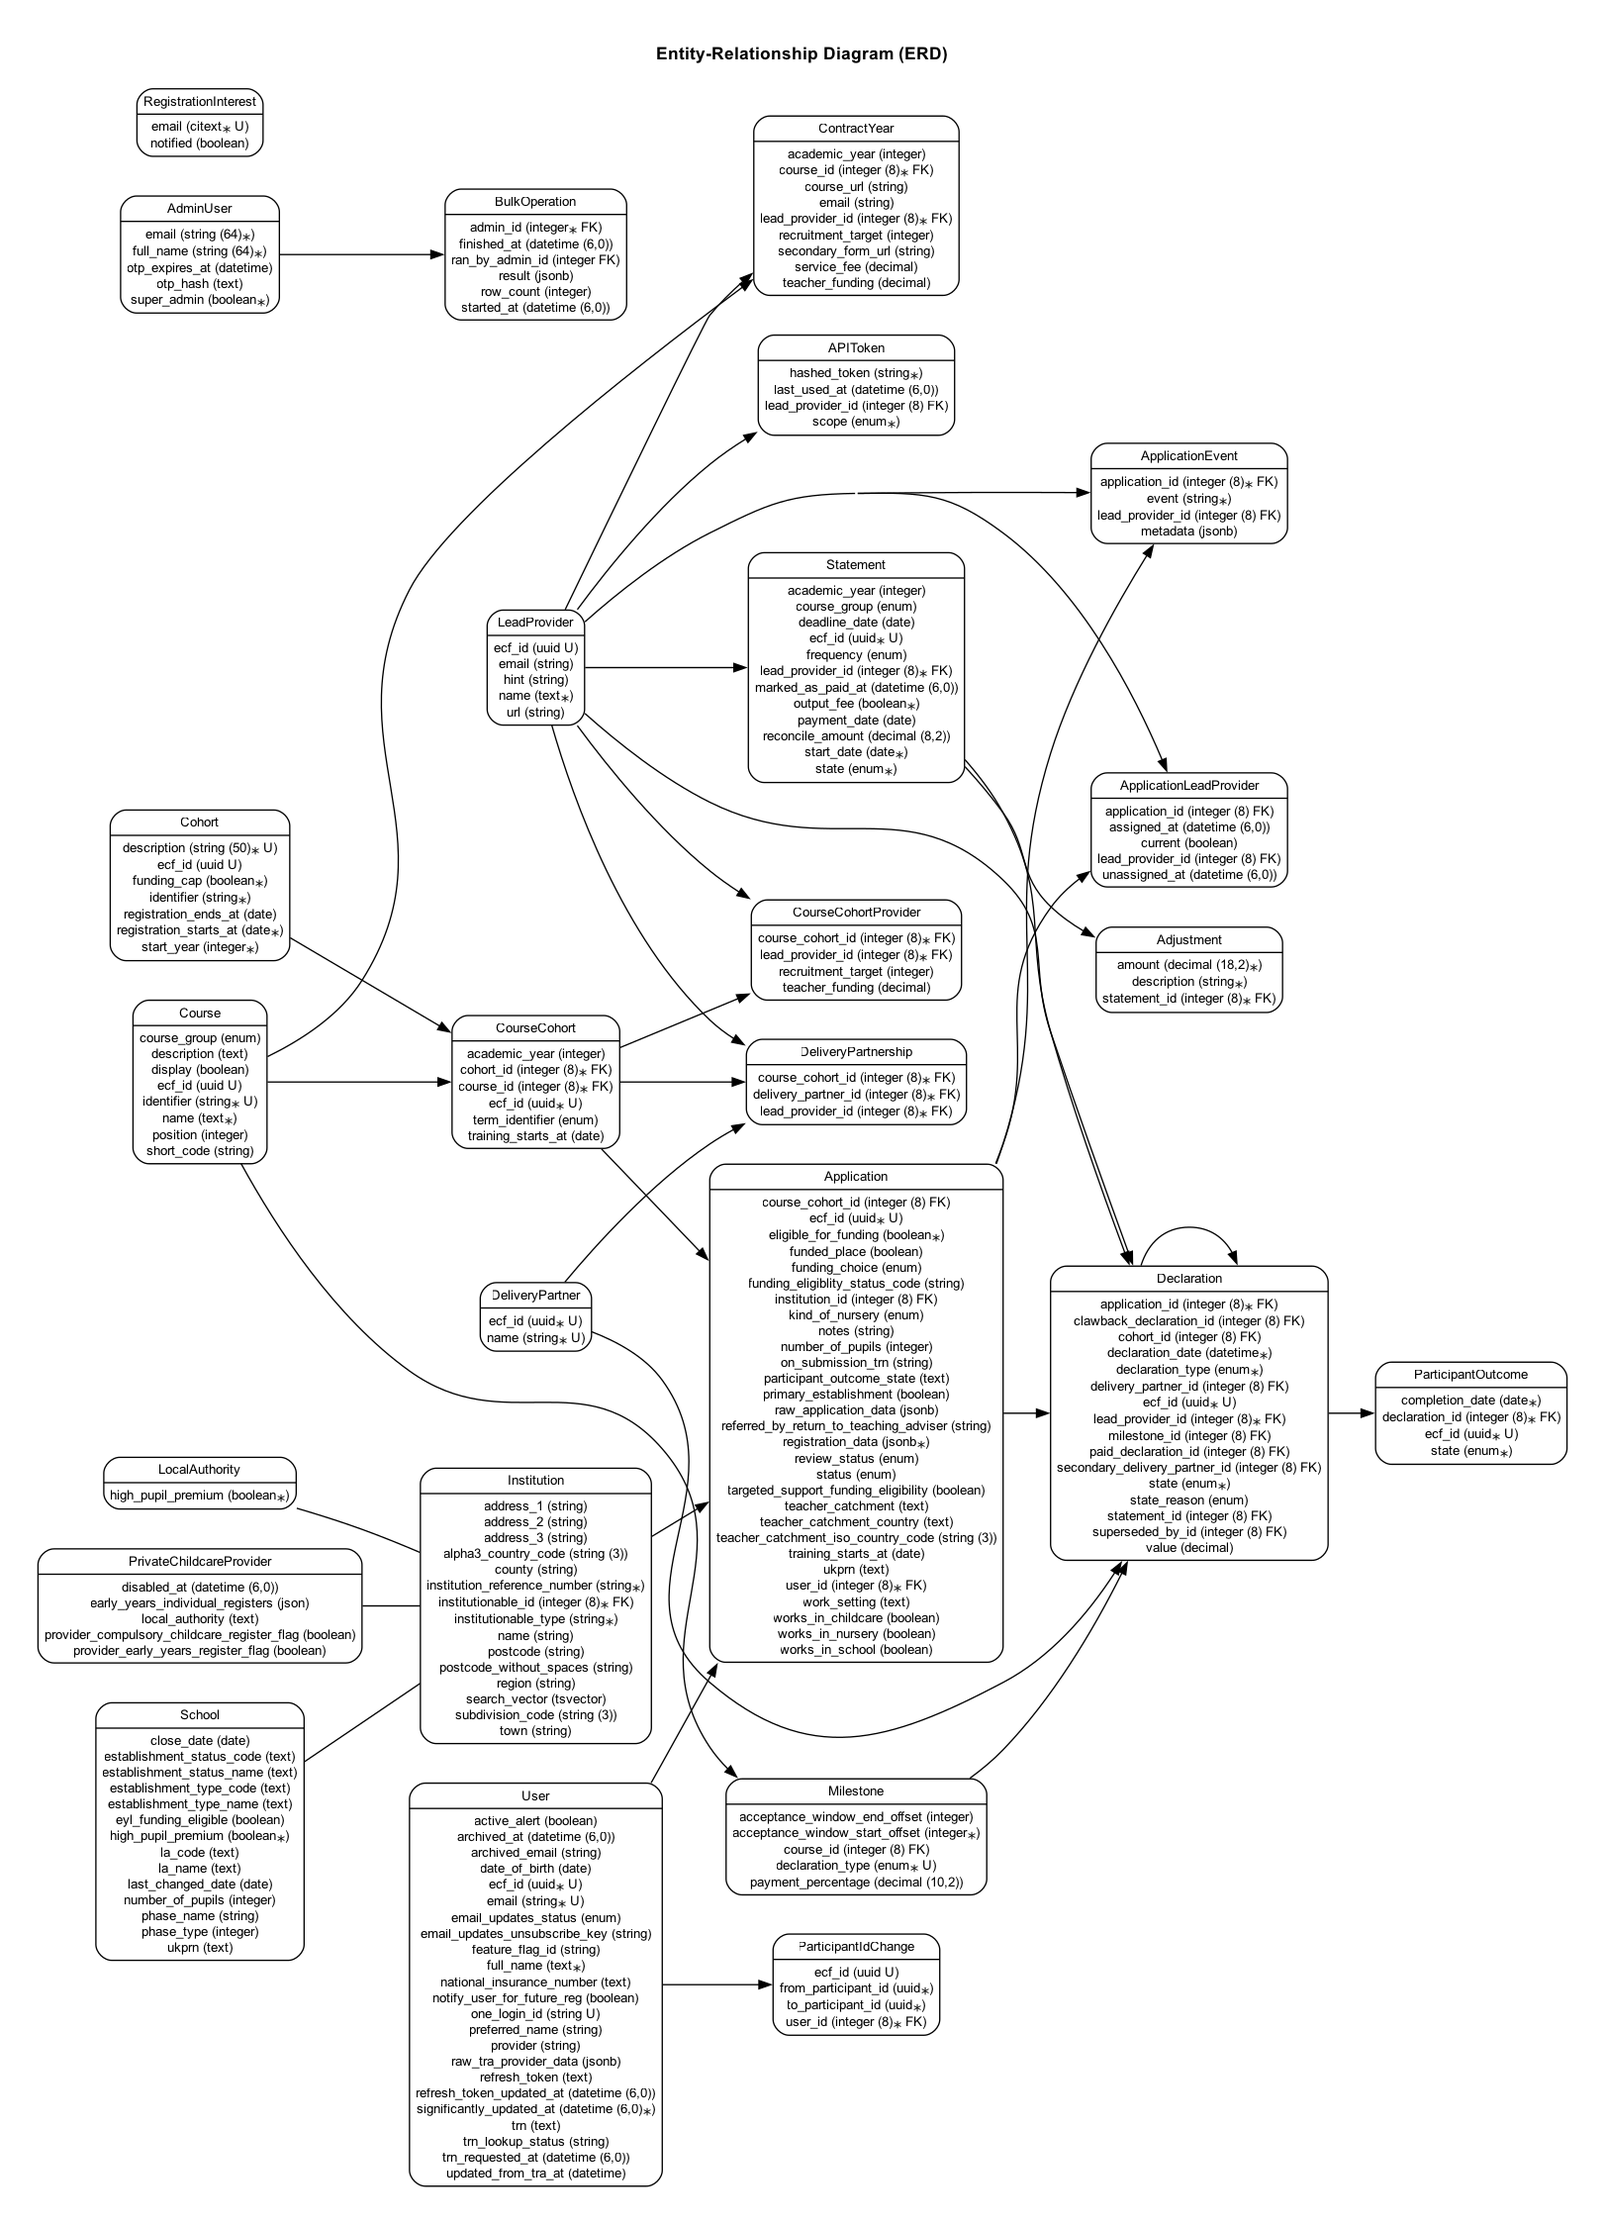
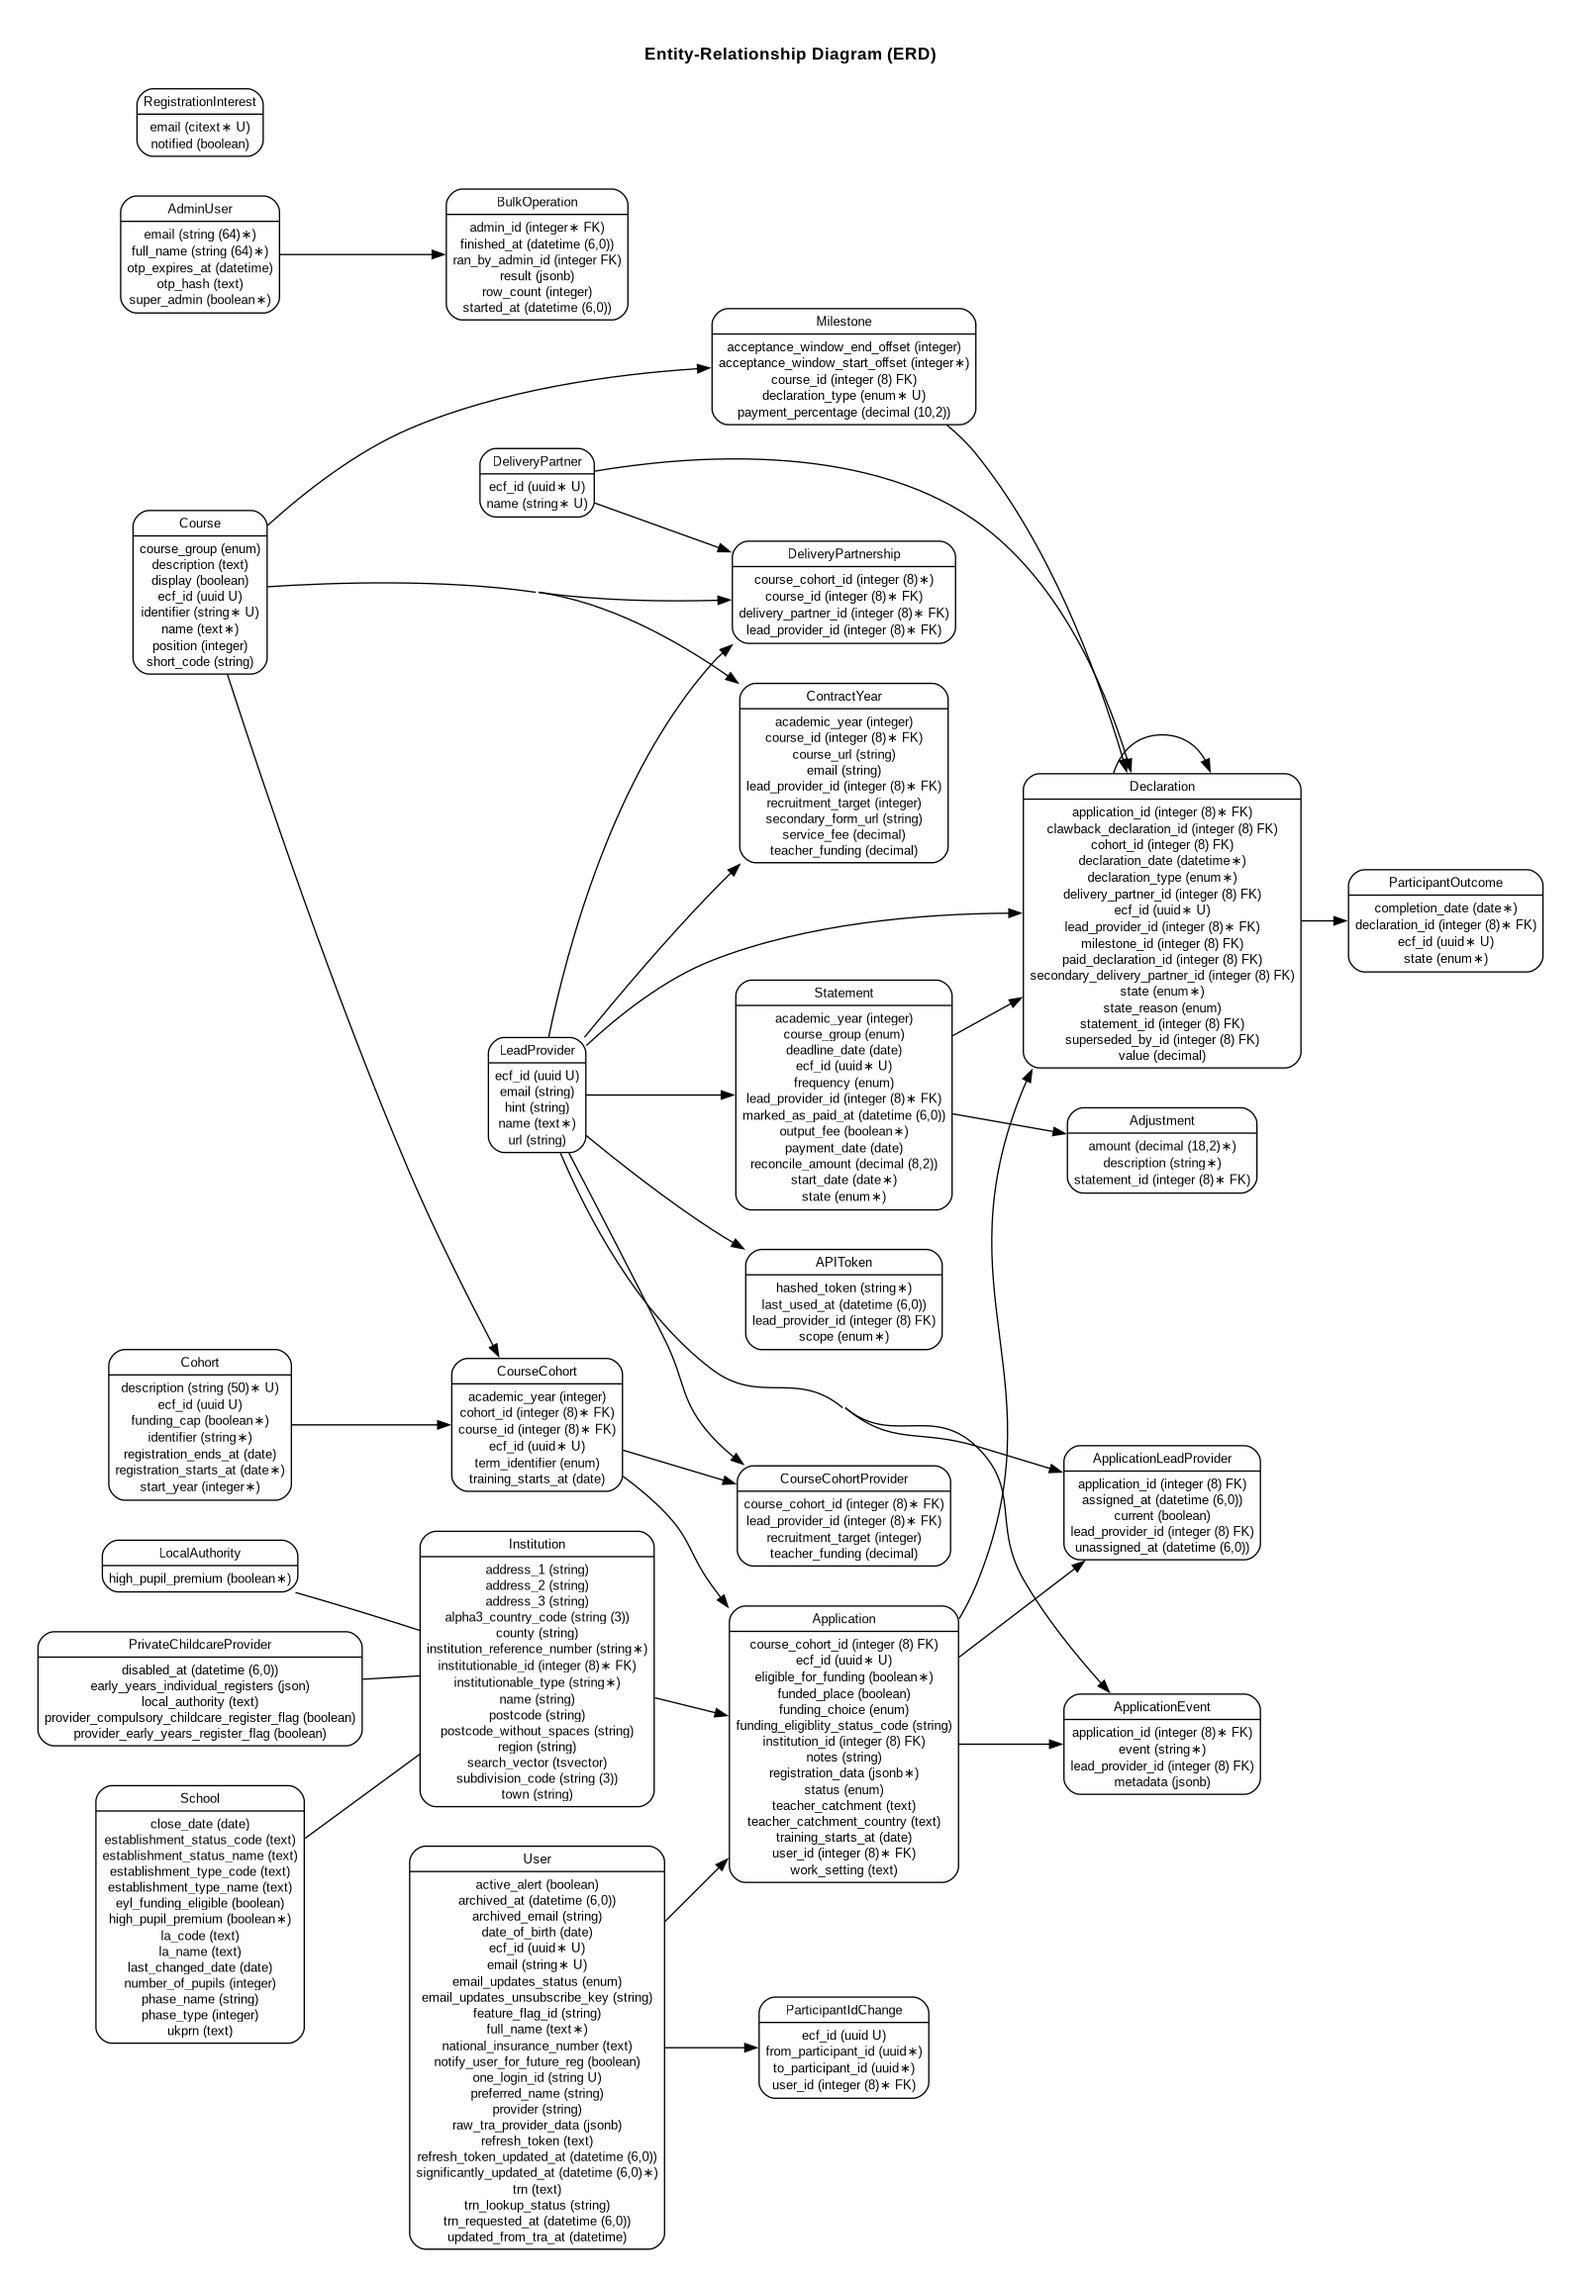
fix data migrate
removed clean up migration
simplify rake backfill task

diff --git a/spec/lib/tasks/data_migrations/backfill_course_delivery_partnerships_spec.rb b/spec/lib/tasks/data_migrations/backfill_course_delivery_partnerships_spec.rb
@@ -3,7 +3,6 @@ require "rails_helper"
 RSpec.describe "data_migrations:backfill_course_delivery_partnerships" do
   after do
     Rake::Task["data_migrations:backfill_course_delivery_partnerships"].reenable
-    connection.clear_cache!
   end
 
   let(:dry_run) { nil }
@@ -18,17 +17,6 @@ RSpec.describe "data_migrations:backfill_course_delivery_partnerships" do
   let(:lead_provider) { create(:lead_provider) }
   let(:delivery_partner_one) { create(:delivery_partner) }
   let(:delivery_partner_two) { create(:delivery_partner) }
-
-  before do
-    # Recreate the pre-migration shape: the task runs after the structure
-    # migration but before course_cohort_id is dropped, when the model no
-    # longer maps the association.
-    connection.execute("ALTER TABLE delivery_partnerships ALTER COLUMN course_id DROP NOT NULL")
-    connection.execute("ALTER TABLE delivery_partnerships ADD COLUMN course_cohort_id bigint")
-    # ALTER TABLE invalidates cached query plans for the table; clear the
-    # prepared statement cache so plans are rebuilt against the legacy shape.
-    connection.clear_cache!
-  end
 
   def insert_legacy_partnership(course_cohort:, lead_provider:, delivery_partner:)
     connection.execute(<<~SQL).to_a.first["id"]
@@ -66,31 +54,41 @@ RSpec.describe "data_migrations:backfill_course_delivery_partnerships" do
       expect(legacy_course_ids).to all(be_nil)
     end
 
-    it "lists every partnership that would be created" do
-      output = invoke_task
-
-      expect(output).to include("DeliveryPartnership #{DeliveryPartnership.first.id}: course_id -> #{course.id}")
-      expect(output).to include("Removing duplicate DeliveryPartnership #{DeliveryPartnership.last.id}")
-      expect(output).to include("Dry run: true")
+    it "reports what would change" do
+      expect(invoke_task).to include(
+        "Dry run: true",
+        "Backfilled partnerships: 1",
+        "Removed duplicate partnerships: 1",
+      )
     end
   end
 
   context "when run for real" do
     let(:dry_run) { "false" }
 
-    before do
+    let!(:kept_id) do
       insert_legacy_partnership(course_cohort: course_cohort_one, lead_provider:, delivery_partner: delivery_partner_one)
+    end
+
+    before do
       insert_legacy_partnership(course_cohort: course_cohort_two, lead_provider:, delivery_partner: delivery_partner_one)
       insert_legacy_partnership(course_cohort: course_cohort_two, lead_provider:, delivery_partner: delivery_partner_two)
     end
 
     it "creates exactly one course-level partnership per delivery partner, lead provider and course" do
-      invoke_task
+      output = invoke_task
 
       partnerships = DeliveryPartnership.order(:id)
       expect(partnerships.count).to eq(2)
       expect(partnerships.map(&:course_id)).to all(eq(course.id))
       expect(partnerships.map(&:delivery_partner)).to contain_exactly(delivery_partner_one, delivery_partner_two)
+      expect(output).to include("Dry run: false", "Backfilled partnerships: 2", "Removed duplicate partnerships: 1")
+    end
+
+    it "keeps the partnership with the lowest id" do
+      invoke_task
+
+      expect(DeliveryPartnership.where(delivery_partner: delivery_partner_one).pluck(:id)).to eq([kept_id])
     end
 
     it "keeps partnerships on other courses untouched" do
@@ -102,8 +100,7 @@ RSpec.describe "data_migrations:backfill_course_delivery_partnerships" do
 
       invoke_task
 
-      partnership = DeliveryPartnership.find(other_course_partnership_id)
-      expect(partnership.course_id).to eq(other_course.id)
+      expect(DeliveryPartnership.find(other_course_partnership_id).course_id).to eq(other_course.id)
     end
 
     it "is idempotent" do
@@ -120,36 +117,6 @@ RSpec.describe "data_migrations:backfill_course_delivery_partnerships" do
 
       expect { invoke_task }.not_to(change { declaration.reload.attributes })
       expect(declaration.delivery_partner).to be_present
-    end
-
-    context "when partner sets are identical between cohorts" do
-      before do
-        insert_legacy_partnership(course_cohort: course_cohort_one, lead_provider:, delivery_partner: delivery_partner_two)
-      end
-
-      it "does not report differing partner sets" do
-        expect(invoke_task).to include("Lead provider/course pairs with partner sets differing between cohorts: 0")
-      end
-    end
-
-    context "when partner sets differ between cohorts" do
-      let(:other_lead_provider) { create(:lead_provider) }
-
-      before do
-        # delivery_partner_two is only on cohort two, so the partner sets differ
-        insert_legacy_partnership(course_cohort: course_cohort_two, lead_provider: other_lead_provider, delivery_partner: delivery_partner_one)
-        insert_legacy_partnership(course_cohort: course_cohort_two, lead_provider: other_lead_provider, delivery_partner: delivery_partner_two)
-      end
-
-      it "reports every lead provider and course pair whose partner set will widen" do
-        output = invoke_task
-
-        expect(output).to include(
-          "Lead provider #{lead_provider.id}, course #{course.id}: partner set differs between cohorts and will widen to all cohorts",
-        )
-        expect(output).not_to include("Lead provider #{other_lead_provider.id}, course #{course.id}: partner set differs")
-        expect(output).to include("Lead provider/course pairs with partner sets differing between cohorts: 1")
-      end
     end
   end
 end

diff --git a/db/schema.rb b/db/schema.rb
@@ -10,7 +10,7 @@
 #
 # It's strongly recommended that you check this file into your version control system.
 
-ActiveRecord::Schema[8.1].define(version: 2026_10_21_103000) do
+ActiveRecord::Schema[8.1].define(version: 2026_11_11_120000) do
   # These are extensions that must be enabled in order to support this database
   enable_extension "btree_gin"
   enable_extension "citext"
@@ -299,13 +299,15 @@ ActiveRecord::Schema[8.1].define(version: 2026_10_21_103000) do
   end
 
   create_table "delivery_partnerships", force: :cascade do |t|
+    t.bigint "course_cohort_id"
     t.datetime "created_at", null: false
     t.bigint "delivery_partner_id", null: false
     t.bigint "lead_provider_id", null: false
     t.datetime "updated_at", null: false
-    t.bigint "course_id", null: false
+    t.bigint "course_id"
+    t.index ["course_cohort_id"], name: "index_delivery_partnerships_on_course_cohort_id"
     t.index ["course_id"], name: "index_delivery_partnerships_on_course_id"
-    t.index ["delivery_partner_id", "lead_provider_id", "course_id"], name: "idx_delivery_partnerships_on_partner_provider_course", unique: true
+    t.index ["delivery_partner_id", "lead_provider_id", "course_cohort_id"], name: "idx_delivery_partnerships_on_partner_provider_course_cohort", unique: true
     t.index ["delivery_partner_id"], name: "index_delivery_partnerships_on_delivery_partner_id"
     t.index ["lead_provider_id"], name: "index_delivery_partnerships_on_lead_provider_id"
   end
@@ -553,7 +555,8 @@ ActiveRecord::Schema[8.1].define(version: 2026_10_21_103000) do
   add_foreign_key "declarations", "delivery_partners"
   add_foreign_key "declarations", "delivery_partners", column: "secondary_delivery_partner_id"
   add_foreign_key "declarations", "lead_providers"
-  add_foreign_key "delivery_partnerships", "courses"
+  add_foreign_key "delivery_partnerships", "course_cohorts"
+  add_foreign_key "delivery_partnerships", "courses", validate: false
   add_foreign_key "delivery_partnerships", "delivery_partners"
   add_foreign_key "delivery_partnerships", "lead_providers"
   add_foreign_key "milestones", "courses"

diff --git a/app/models/delivery_partnership.rb b/app/models/delivery_partnership.rb
@@ -8,5 +8,5 @@ class DeliveryPartnership < ApplicationRecord
   validates :delivery_partner_id, presence: true
   validates :lead_provider_id, presence: true
   validates :course_id, presence: true
-  validates :delivery_partner_id, uniqueness: { scope: %i[lead_provider_id course_id] }
+  validates :delivery_partner_id, uniqueness: { scope: %i[lead_provider_id course_id] } # rubocop:disable Rails/UniqueValidationWithoutIndex
 end

diff --git a/db/migrate/20261111120000_allow_null_course_cohort_on_delivery_partnerships.rb b/db/migrate/20261111120000_allow_null_course_cohort_on_delivery_partnerships.rb
@@ -1,0 +1,7 @@
+class AllowNullCourseCohortOnDeliveryPartnerships < ActiveRecord::Migration[8.1]
+  # Partnerships are now created at course level; course_cohort_id is kept
+  # only until the backfill has run, then dropped in a later migration.
+  def change
+    change_column_null :delivery_partnerships, :course_cohort_id, true
+  end
+end

diff --git a/documentation/domain-model.md b/documentation/domain-model.md
@@ -46,10 +46,11 @@ erDiagram
     integer delivery_partner_id
     integer lead_provider_id
     datetime updated_at
+    integer course_id
   }
   DeliveryPartnership }o--|| DeliveryPartner : belongs_to
   DeliveryPartnership }o--|| LeadProvider : belongs_to
-  DeliveryPartnership }o--|| CourseCohort : belongs_to
+  DeliveryPartnership }o--|| Course : belongs_to
   DeliveryPartner {
     integer id
     datetime created_at
@@ -168,27 +169,13 @@ erDiagram
     enum funding_choice
     string funding_eligiblity_status_code
     integer institution_id
-    enum kind_of_nursery
     string notes
-    integer number_of_pupils
-    string on_submission_trn
-    text participant_outcome_state
-    boolean primary_establishment
-    jsonb raw_application_data
-    string referred_by_return_to_teaching_adviser
-    enum review_status
     enum status
-    boolean targeted_support_funding_eligibility
     text teacher_catchment
     text teacher_catchment_country
-    string teacher_catchment_iso_country_code
-    text ukprn
     datetime updated_at
     integer user_id
     text work_setting
-    boolean works_in_childcare
-    boolean works_in_nursery
-    boolean works_in_school
     date training_starts_at
     jsonb registration_data
   }
